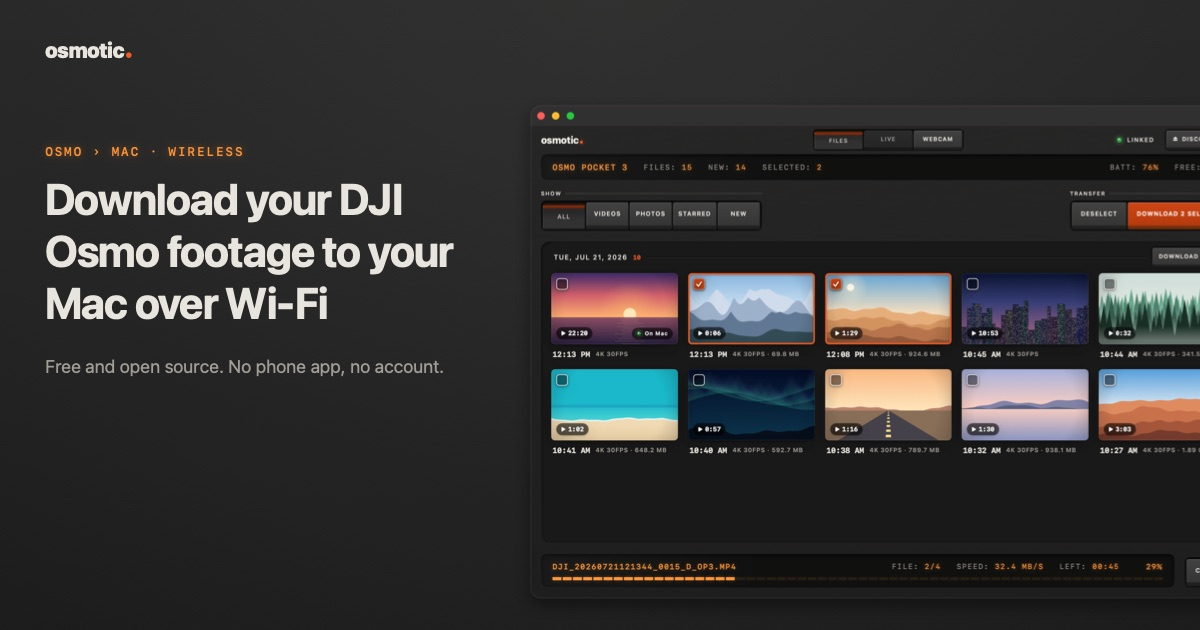
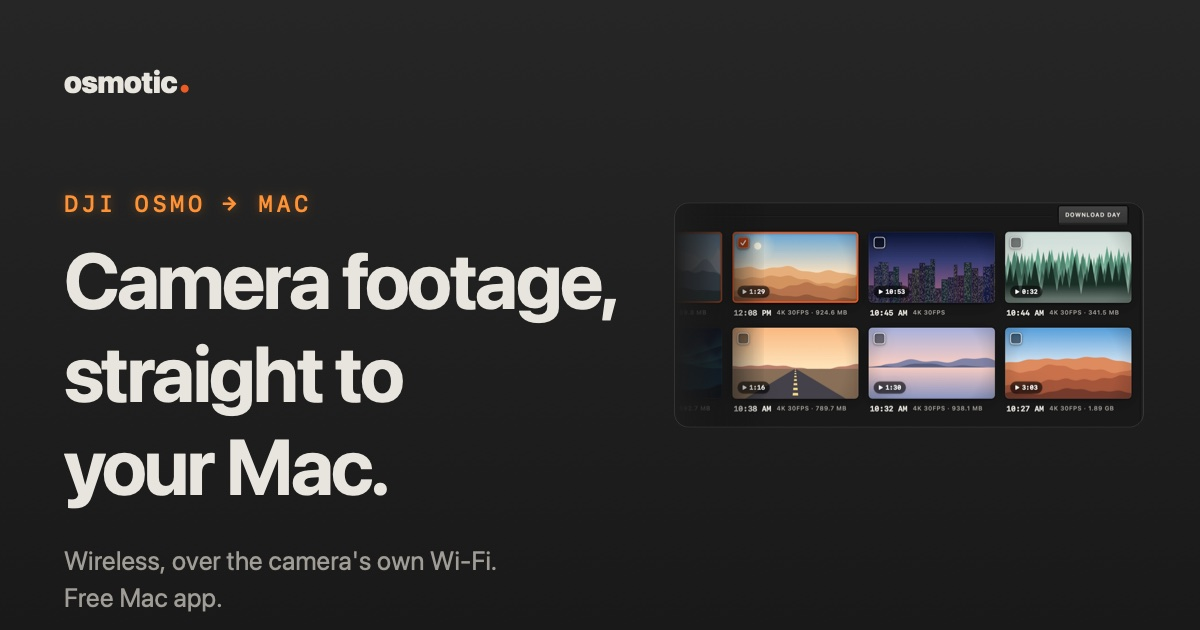
Social card: say what the app is for, in type that survives a thumbnail
A reader who only saw the WhatsApp preview asked what music it plays. The
card was a scaled gallery slide: a 43-px headline that lands at about 12 px
in a preview, and a full app window too small to read.

New card, drawn on its own canvas: "Camera footage, straight to your Mac."
at 78 px, an amber "DJI OSMO → MAC" line, one subline ("Wireless, over the
camera's own Wi-Fi. Free Mac app.") and a crop of the clip grid instead of
the whole window, its cut edge faded. Checked at 350 px, the width a
preview actually gets.

og:title is now "Download DJI Osmo footage to your Mac" and og:description
names the cameras, so the text beside the card can't read as a player.

diff --git a/scripts/make_launch_assets.swift b/scripts/make_launch_assets.swift
@@ -226,28 +226,74 @@ try slide("07-open.png") {
     text("github.com/smithplus/Osmotic", mono(15), amber, x: 90, y: 590, width: 600, tracking: 1, glow: amber.withAlphaComponent(0.3))
 }
 
-// Social card for the landing page (og:image, 1200×630 at 1x), committed to docs/images.
+// Social card for the landing page (og:image, 1200×630). Link previews show it at about a third of
+// this width, so the headline is huge and says what the app is for; a reader who only sees the card
+// should not guess "music player". Drawn on its own canvas, not by scaling a gallery slide.
 do {
-    let cw: CGFloat = 1200, chh: CGFloat = 630
-    let rep = NSBitmapImageRep(bitmapDataPlanes: nil, pixelsWide: Int(cw), pixelsHigh: Int(chh), bitsPerSample: 8,
+    let cw: CGFloat = 1200, ch: CGFloat = 630
+    let rep = NSBitmapImageRep(bitmapDataPlanes: nil, pixelsWide: Int(cw), pixelsHigh: Int(ch), bitsPerSample: 8,
                                samplesPerPixel: 4, hasAlpha: true, isPlanar: false, colorSpaceName: .deviceRGB,
                                bytesPerRow: 0, bitsPerPixel: 0)!
     NSGraphicsContext.saveGraphicsState()
     NSGraphicsContext.current = NSGraphicsContext(bitmapImageRep: rep)
     NSGraphicsContext.current?.imageInterpolation = .high
-    // Reuse the slide drawing at a scale that fits 1270×760 into 1200×630, then crop the overflow.
-    let k = cw / W
-    NSGraphicsContext.current?.cgContext.translateBy(x: 0, y: chh - H * k)
-    NSGraphicsContext.current?.cgContext.scaleBy(x: k, y: k)
-    plate()
-    wordmark()
-    label("Osmo › Mac · Wireless", x: 48, y: 150)
-    let h = text("Download your DJI Osmo footage to your Mac over Wi-Fi", sans(46, .bold), ink, x: 48, y: 182, width: 470, tracking: -1.2, line: 1.02)
-    text("Free and open source. No phone app, no account.", sans(19, .regular), muted, x: 48, y: 182 + h + 22, width: 440, line: 1.25)
-    shot("library.png", x: 560, y: 110, width: 760)
+
+    NSGradient(colors: [rgb(38, 38, 37), rgb(25, 25, 24)])!.draw(in: NSRect(x: 0, y: 0, width: cw, height: ch), angle: -90)
+
+    /// Text from the top-left of this canvas.
+    @discardableResult
+    func card(_ str: String, _ font: NSFont, _ color: NSColor, x: CGFloat, y: CGFloat, width: CGFloat,
+              tracking: CGFloat = 0, line: CGFloat = 1.0, glow: NSColor? = nil) -> CGFloat {
+        let p = NSMutableParagraphStyle()
+        p.lineHeightMultiple = line
+        var attrs: [NSAttributedString.Key: Any] = [.font: font, .foregroundColor: color, .paragraphStyle: p, .kern: tracking]
+        if let glow {
+            let sh = NSShadow(); sh.shadowColor = glow; sh.shadowBlurRadius = 10; sh.shadowOffset = .zero
+            attrs[.shadow] = sh
+        }
+        let a = NSAttributedString(string: str, attributes: attrs)
+        let h = ceil(a.boundingRect(with: NSSize(width: width, height: 900), options: [.usesLineFragmentOrigin]).height)
+        a.draw(with: NSRect(x: x, y: ch - y - h, width: width, height: h), options: [.usesLineFragmentOrigin])
+        return h
+    }
+
+    // The app's screenshot, cropped to the grid of clips: footage, at a glance.
+    if let shot = NSImage(contentsOf: images.appendingPathComponent("library.png")),
+        let cg = shot.cgImage(forProposedRect: nil, context: nil, hints: nil)
+    {
+        let cropW = Int(Double(cg.width) * 0.62), cropH = Int(Double(cg.height) * 0.42)
+        if let crop = cg.cropping(to: CGRect(x: cg.width - cropW - 60, y: Int(Double(cg.height) * 0.30), width: cropW, height: cropH)) {
+            let w: CGFloat = 470, h = w * CGFloat(cropH) / CGFloat(cropW)
+            let r = NSRect(x: cw - w - 56, y: (ch - h) / 2, width: w, height: h)
+            NSGraphicsContext.saveGraphicsState()
+            let sh = NSShadow(); sh.shadowColor = NSColor.black.withAlphaComponent(0.5); sh.shadowBlurRadius = 30; sh.shadowOffset = NSSize(width: 0, height: -10)
+            sh.set()
+            let clip = NSBezierPath(roundedRect: r, xRadius: 14, yRadius: 14)
+            clip.addClip()
+            NSImage(cgImage: crop, size: r.size).draw(in: r)
+            // The crop cuts a column: fade that edge so it reads as "there is more".
+            NSGradient(colors: [rgb(28, 28, 27), rgb(28, 28, 27, 0)])!
+                .draw(in: NSRect(x: r.minX, y: r.minY, width: 90, height: r.height), angle: 0)
+            NSGraphicsContext.restoreGraphicsState()
+            NSColor.white.withAlphaComponent(0.1).setStroke()
+            NSBezierPath(roundedRect: r.insetBy(dx: 0.5, dy: 0.5), xRadius: 14, yRadius: 14).stroke()
+        }
+    }
+
+    // Wordmark, then the headline: what it does, in as few words as read at thumbnail size.
+    let font = sans(30, .heavy)
+    let mark = NSAttributedString(string: "osmotic", attributes: [.font: font, .foregroundColor: ink, .kern: -0.6])
+    mark.draw(at: NSPoint(x: 64, y: ch - 64 - mark.size().height))
+    accent.setFill()
+    NSBezierPath(ovalIn: NSRect(x: 64 + mark.size().width + 3, y: ch - 64 - mark.size().height - font.descender, width: 8, height: 8)).fill()
+
+    card("DJI OSMO → MAC", mono(23, .medium), amber, x: 64, y: 190, width: 620, tracking: 3.5, glow: amber.withAlphaComponent(0.35))
+    let hh = card("Camera footage,\nstraight to\nyour Mac.", sans(78, .bold), ink, x: 64, y: 232, width: 620, tracking: -2.2, line: 1.02)
+    card("Wireless, over the camera's own Wi-Fi.\nFree Mac app.", sans(26, .regular), muted, x: 64, y: 232 + hh + 26, width: 600, line: 1.25)
+
     NSGraphicsContext.restoreGraphicsState()
     // JPEG: link previews (WhatsApp, iMessage) often skip cards over ~300 KB.
-    try rep.representation(using: .jpeg, properties: [.compressionFactor: 0.82])!.write(to: images.appendingPathComponent("og.jpg"))
+    try rep.representation(using: .jpeg, properties: [.compressionFactor: 0.84])!.write(to: images.appendingPathComponent("og.jpg"))
     print(images.appendingPathComponent("og.jpg").path)
 }
 

diff --git a/site/index.html b/site/index.html
@@ -13,15 +13,15 @@
 <link rel="apple-touch-icon" href="images/icon.png">
 <link rel="canonical" href="https://smithplus.github.io/Osmotic/">
 <meta property="og:type" content="website">
-<meta property="og:title" content="Osmotic: your Osmo camera, on your Mac">
-<meta property="og:description" content="Download DJI Osmo footage to your Mac over Wi-Fi. Free and open source.">
+<meta property="og:title" content="Download DJI Osmo footage to your Mac">
+<meta property="og:description" content="Wireless, over the camera's own Wi-Fi. A free, open-source Mac app for DJI Osmo cameras.">
 <meta property="og:url" content="https://smithplus.github.io/Osmotic/">
 <meta property="og:image" content="https://smithplus.github.io/Osmotic/images/og.jpg">
 <meta property="og:image:width" content="1200">
 <meta property="og:image:height" content="630">
-<meta property="og:image:alt" content="Osmotic: download your DJI Osmo footage to your Mac over Wi-Fi">
+<meta property="og:image:alt" content="Camera footage, straight to your Mac: Osmotic's file grid of clips from a DJI Osmo">
 <meta name="twitter:card" content="summary_large_image">
-<meta name="twitter:image:alt" content="Osmotic: download your DJI Osmo footage to your Mac over Wi-Fi">
+<meta name="twitter:image:alt" content="Camera footage, straight to your Mac: Osmotic's file grid of clips from a DJI Osmo">
 <link rel="sitemap" type="application/xml" href="sitemap.xml">
 <script type="application/ld+json">{"@context":"https://schema.org","@graph":[{"@type":"SoftwareApplication","@id":"https://smithplus.github.io/Osmotic/#app","name":"Osmotic","description":"Free, open-source Mac app for DJI Osmo cameras: download footage over the camera's own Wi-Fi, control the camera and watch it live, or use it as a USB webcam.","applicationCategory":"MultimediaApplication","operatingSystem":"macOS 15 or later","processorRequirements":"Apple silicon or Intel","offers":{"@type":"Offer","price":"0","priceCurrency":"USD"},"downloadUrl":"https://github.com/smithplus/Osmotic/releases/latest","url":"https://smithplus.github.io/Osmotic/","image":"https://smithplus.github.io/Osmotic/images/icon.png","screenshot":"https://smithplus.github.io/Osmotic/images/og.jpg","license":"https://opensource.org/licenses/MIT","isAccessibleForFree":true,"inLanguage":["en","es"],"author":{"@type":"Person","name":"smithplus","url":"https://x.com/smithplus","sameAs":["https://github.com/smithplus"]},"isBasedOn":{"@type":"SoftwareSourceCode","name":"Osmosis","url":"https://github.com/KonradIT/osmosis"},"sameAs":["https://github.com/smithplus/Osmotic"]},{"@type":"WebSite","@id":"https://smithplus.github.io/Osmotic/#site","name":"Osmotic","url":"https://smithplus.github.io/Osmotic/","inLanguage":"en","about":{"@id":"https://smithplus.github.io/Osmotic/#app"}}]}</script>
 <link rel="stylesheet" href="style.css">
